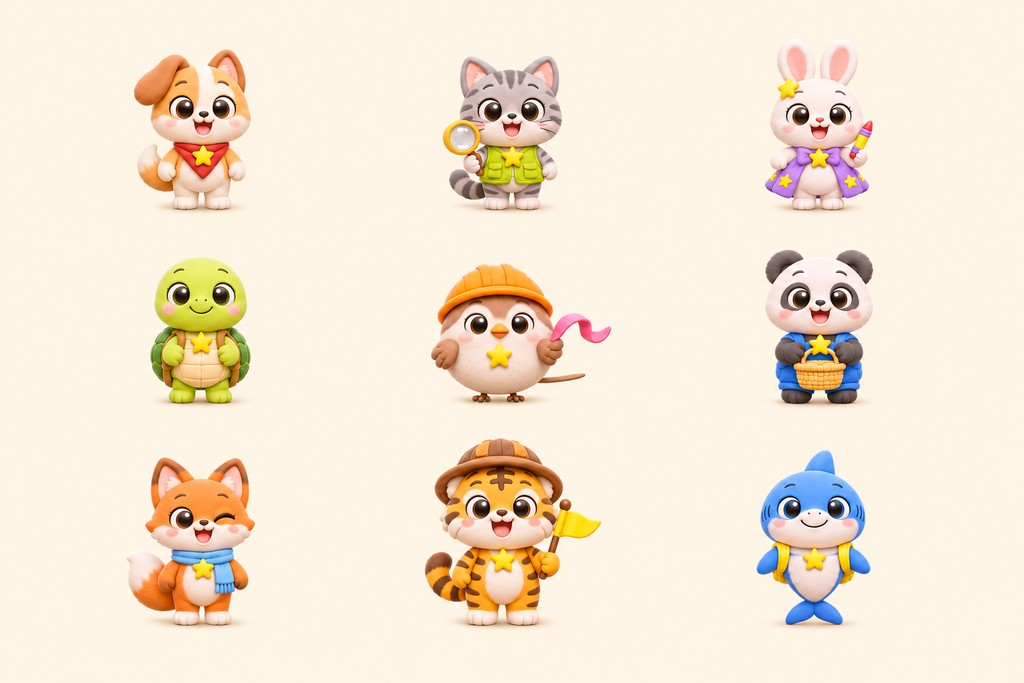
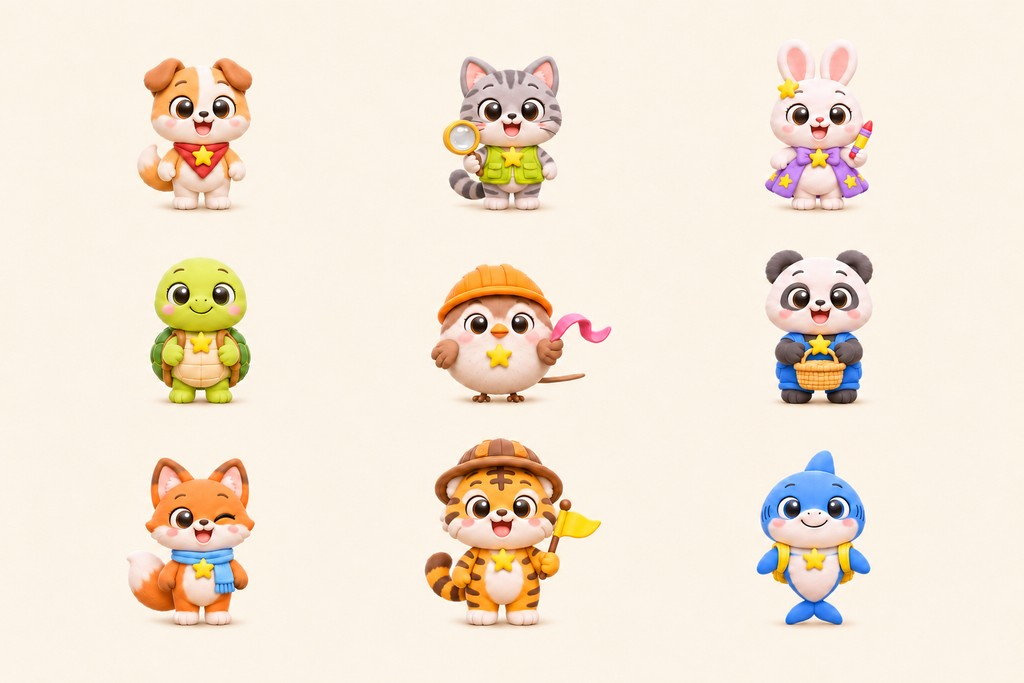
캐릭터 기준표(ref_friends): 반테 양쪽 귀를 대칭 반접힌 귀로 수정

diff --git a/server/app/painter.py b/server/app/painter.py
@@ -37,7 +37,7 @@ NOT_AI = (
 )
 STYLE = LOOK + (
     "Landscape picture, main subjects centered with margin on the left and right. "
-    "The first reference picture is the model sheet of the nine friends, read row by row: Bante (puppy, light brown and white, left ear folded, red scarf), Konyang (gray "
+    "The first reference picture is the model sheet of the nine friends, read row by row: Bante (puppy, light brown and white, symmetric half-folded button ears, red scarf), Konyang (gray "
     "tabby kitten, lime vest, magnifying glass), Ria (white bunny, yellow star hairpin, lilac cape with stars, crayon), "
     "Tubugi (green turtle, dark green shell, small backpack), Pappi (tiny round long-tailed tit bird, short beak, orange "
     "hard hat, pink ribbon), Potto (panda, blue overalls, bamboo basket), Io (orange fox, sky-blue scarf, winking), "
